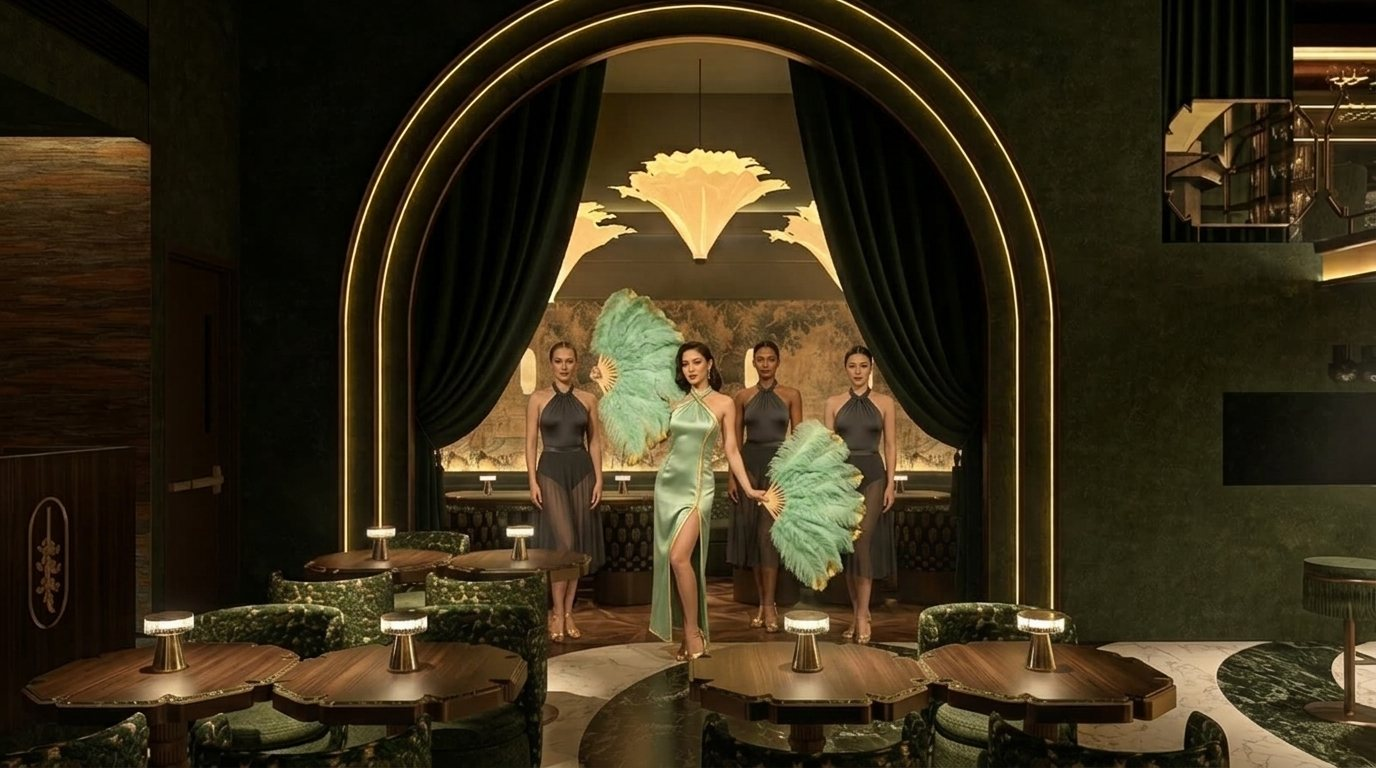
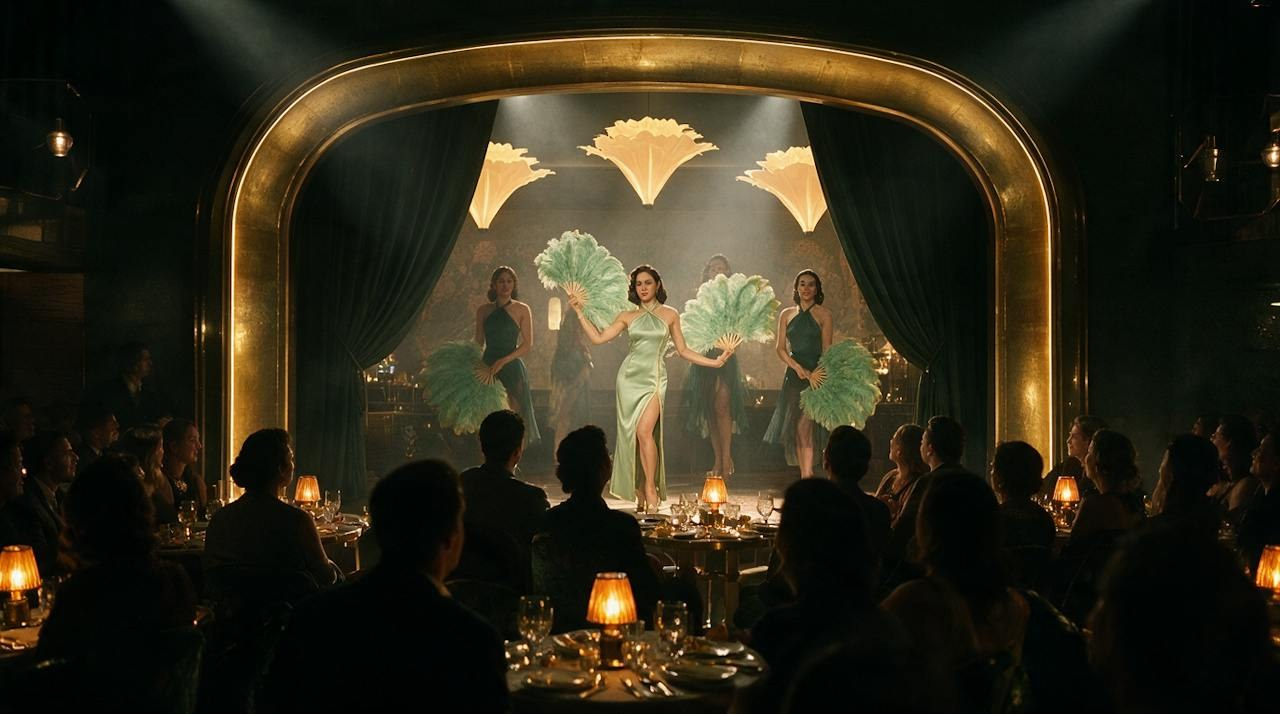
jade-manila-v3: mount the rest of the new material into Design D
Audit of the live page showed 11 of 18 new assets were never referenced: only
the six dishes and one menu photo had made it in, and the dishes were
hover-only so they were invisible while scrolling. Three new bands fix that.

#plates - the six signature dishes as a visible 3-up grid with names and
garnish lines, so they read without hovering: Caviar Cannoli, Chawanmushi,
King Crab Toast, Lobster Paccheri, Peking-Spiced Duck, Matcha Tiramisu.

#caviar - a full-bleed band for the Private Collection, carrying the green
marble and gold look, with the four tiers named.

#craft - the Oct-25 brand pack from Yohji, six applications: menu cover front
and back, envelope, coaster, napkin and the thank-you card.

The two Show frames are also replaced. The previous ones were empty-room
renders with vacant tables and flat light; the new pair put a packed floor of
silhouetted guests in front of the stage and a full house below the mezzanine,
with haze in the beams and the stage the brightest thing in frame. They come
back at 1280x714 against the old 1376x768 -- slightly fewer pixels, far more
picture. The free Seedream lane caps at 1K.

Verified: 10 sections, 69 images, 0 broken, 12 visible tiles across the two
grids, caviar bed loading at 1600px.

diff --git a/jade-manila-v3/index.html b/jade-manila-v3/index.html
@@ -270,6 +270,29 @@ footer img{width:min(220px,60%);height:auto}
 
 .rm .walk{height:auto}.rm .walk .stage{position:relative;height:70vh}.rm .chap{position:static;opacity:1;transform:none;padding:32px clamp(16px,4vw,48px)}.rm .walk .intro,.rm .grain,.rm .rail,.rm .ctr{display:none}
 .rm .dish{opacity:1;transform:none}.rm .cur{display:none}.rm .lines i{transform:none}
+
+/* --- added bands: the plates, the caviar collection, the brand craft --- */
+.plates,.craft{padding:clamp(56px,8vw,110px) 0;border-top:1px solid var(--line)}
+.plates .wrap,.craft .wrap{display:flex;flex-direction:column;gap:clamp(22px,3vw,40px)}
+.g3{display:grid;grid-template-columns:repeat(3,minmax(0,1fr));gap:18px}
+@media (max-width:900px){.g3{grid-template-columns:repeat(2,minmax(0,1fr))}}
+@media (max-width:560px){.g3{grid-template-columns:1fr}}
+.g3 .fr{position:relative;overflow:hidden;background:#09110c;border:1px solid var(--line)}
+.g3 .fr img{width:100%;aspect-ratio:4/3;object-fit:cover;display:block;transition:transform .9s ease}
+.g3 .fr:hover img{transform:scale(1.04)}
+.g3 .fr .lab{position:absolute;left:0;right:0;bottom:0;padding:14px 16px;
+  background:linear-gradient(180deg,rgba(7,17,13,0),rgba(7,17,13,.92))}
+.g3 .fr .lab b{display:block;font-family:'Jost',system-ui,sans-serif;font-weight:600;
+  font-size:12px;letter-spacing:.14em;text-transform:uppercase;color:#F6F5F1}
+.g3 .fr .lab span{display:block;margin-top:3px;font-size:11px;color:var(--mute)}
+.caviar{position:relative;min-height:clamp(320px,46vw,560px);display:flex;align-items:center;
+  border-top:1px solid var(--line);overflow:hidden}
+.caviar img.bed{position:absolute;inset:0;width:100%;height:100%;object-fit:cover}
+.caviar::after{content:"";position:absolute;inset:0;
+  background:linear-gradient(90deg,rgba(7,17,13,.92),rgba(7,17,13,.55) 52%,rgba(7,17,13,.15))}
+.caviar .wrap{position:relative;z-index:1;display:flex;flex-direction:column;gap:16px;max-width:1320px}
+.caviar .wrap p{max-width:46ch}
+
 </style>
 </head>
 <body>
@@ -408,6 +431,31 @@ footer img{width:min(220px,60%);height:auto}
   </div>
 </div></section>
 
+<section class="plates" id="plates"><div class="wrap">
+  <div style="display:flex;flex-direction:column;gap:14px">
+    <p class="k" style="margin:0">Signature &middot; Todd English</p>
+    <h2 class="h">Six plates the kitchen opens with.</h2>
+    <p class="lede">Shot for the opening menu. Caviar and uni through the wood oven to matcha.</p>
+  </div>
+  <div class="g3">
+    <div class="fr"><img src="img/sig-caviar-cannoli.jpg" alt="Caviar Cannoli"><div class="lab"><b>Caviar Cannoli</b><span>Smoked yellowtail mousse · sesame · Ossetra</span></div></div>
+    <div class="fr"><img src="img/sig-chawanmushi.jpg" alt="Chawanmushi"><div class="lab"><b>Chawanmushi</b><span>Sweet corn &amp; coconut · uni · Ossetra</span></div></div>
+    <div class="fr"><img src="img/sig-king-crab-toast.jpg" alt="King Crab Toast"><div class="lab"><b>King Crab Toast</b><span>Japanese milk bread · uni sabayon</span></div></div>
+    <div class="fr"><img src="img/sig-lobster-paccheri.jpg" alt="Lobster Paccheri"><div class="lab"><b>Lobster Paccheri</b><span>Roasted-shell tomato dashi · Calabrian chili</span></div></div>
+    <div class="fr"><img src="img/sig-peking-duck.jpg" alt="Peking-Spiced Duck"><div class="lab"><b>Peking-Spiced Duck</b><span>Crisp leg · cucumber · scallion · plum-hoisin</span></div></div>
+    <div class="fr"><img src="img/sig-matcha-tiramisu.jpg" alt="Matcha Tiramisu"><div class="lab"><b>Matcha Tiramisu</b><span>Espresso · mascarpone</span></div></div>
+  </div>
+</div></section>
+
+<section class="caviar" id="caviar">
+  <img class="bed" src="img/caviar-hero.jpg" alt="Jade Private Collection caviar on green marble">
+  <div class="wrap">
+    <p class="k" style="margin:0">The caviar bar</p>
+    <h2 class="h">The Private Collection.</h2>
+    <p class="lede">Classic, Imperial, Royal Ossetra and Grand Reserve, served at the bar until two, with blinis, cr&egrave;me fra&icirc;che and a mother-of-pearl spoon.</p>
+  </div>
+</section>
+
 <section class="chef"><div class="wrap">
   <div style="display:flex;flex-direction:column;gap:22px;min-width:0">
     <p class="k" style="margin:0">Food by Todd English</p>
@@ -416,6 +464,22 @@ footer img{width:min(220px,60%);height:auto}
     <p>His kitchens have run from Las Vegas to the Bahamas to Abu Dhabi. At Jade, he brings the world to a Filipino table.</p>
   </div>
   <div class="frame"><img src="img/fd-beef-real.jpg" alt="From the wood oven"></div>
+</div></section>
+
+<section class="craft" id="craft"><div class="wrap">
+  <div style="display:flex;flex-direction:column;gap:14px">
+    <p class="k" style="margin:0">The mark, in the room</p>
+    <h2 class="h">It reaches the table before the food does.</h2>
+    <p class="lede">Menu, envelope, coaster, napkin and the card that closes service.</p>
+  </div>
+  <div class="g3">
+    <div class="fr"><img src="img/app-menu-front.jpg" alt="The menu"><div class="lab"><b>The menu</b><span>A4 cover on the house stock</span></div></div>
+    <div class="fr"><img src="img/app-menu-back.jpg" alt="The reverse"><div class="lab"><b>The reverse</b><span>The mark alone &middot; Manila</span></div></div>
+    <div class="fr"><img src="img/app-envelope.jpg" alt="The envelope"><div class="lab"><b>The envelope</b><span>Dark green stock, blind mark</span></div></div>
+    <div class="fr"><img src="img/app-coaster.jpg" alt="The coaster"><div class="lab"><b>The coaster</b><span>On green marble</span></div></div>
+    <div class="fr"><img src="img/app-napkin.jpg" alt="The napkin"><div class="lab"><b>The napkin</b><span>Embroidered, table-dressed</span></div></div>
+    <div class="fr"><img src="img/app-thankyou.jpg" alt="Thank you"><div class="lab"><b>Thank you</b><span>The close of service</span></div></div>
+  </div>
 </div></section>
 
 <section class="show" id="show"><div class="wrap">
